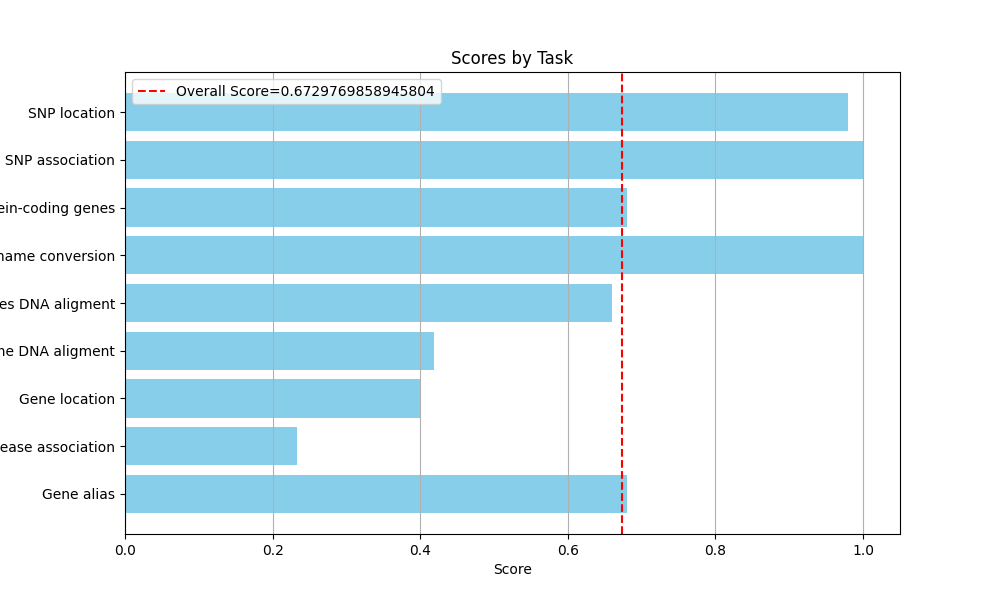
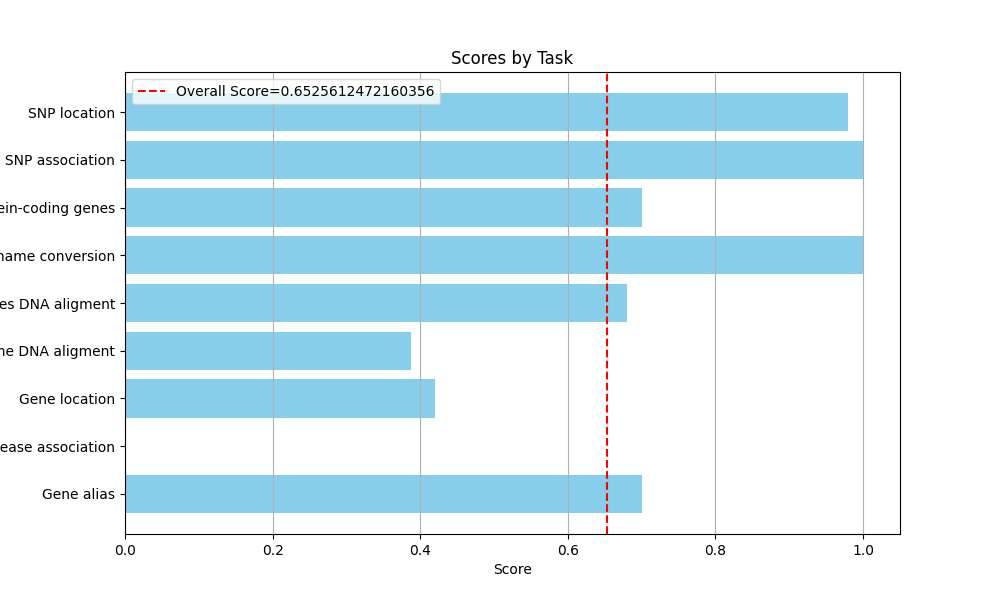
day3code

diff --git a/day3/judge.py b/day3/judge.py
@@ -27,7 +27,7 @@ api_base = os.getenv("AZURE_OPENAI_ENDPOINT")
 api_version = os.getenv("AZURE_OPENAI_API_VERSION")
 api_deployment = os.getenv("AZURE_OPENAI_DEPLOYMENT_NAME")
 
-DATASET = "genehop"
+DATASET = "geneturing"
 
 DATASET_FILE = f"{DATASET}_results.json"
 # set up the client
@@ -84,16 +84,6 @@ Explanation: [Your Justification]
     except Exception as e:
         return f"An error occurred during evaluation: {e}"
 
-def score_per_task_all(results):
-    task_scores = defaultdict(list)
-    for result in results:
-        if result.success:
-            task_scores[result.task].append(result.score)
-    for task, scores in task_scores.items():
-        task_scores[task] = sum(scores) / len(scores) if scores else 0
-    all_scores = [result.score for result in results if result.success]
-    overall_score = sum(all_scores) / len(all_scores) if all_scores else 0.0
-    return task_scores,overall_score
 
 
 def plot_scores_by_task(
@@ -117,27 +107,27 @@ def plot_scores_by_task(
     plt.savefig(imag_path)
     plt.show()
 
-# def calculate_evaluation(results_df):
-#     """
-#     Calculates the average score for each task and the overall average score.
+def calculate_evaluation(results_df):
+    """
+    Calculates the average score for each task and the overall average score.
 
-#     Args:
-#         results_df: A pandas DataFrame containing a 'task' and a'evaluation' column.
+    Args:
+        results_df: A pandas DataFrame containing a 'task' and a'evaluation' column.
 
-#     Returns:
-#         A tuple containing:
-#         - task_scores (dict): Average score for each task.
-#         - overall_score (float): Average score across all entries.
-#     """
-#     results_df['evaluation'] = pd.to_numeric(results_df['evaluation'], errors='coerce')
+    Returns:
+        A tuple containing:
+        - task_scores (dict): Average score for each task.
+        - overall_score (float): Average score across all entries.
+    """
+    results_df['score'] = pd.to_numeric(results_df['score'], errors='coerce')
     
-#     # Drop rows where score could not be parsed
-#     results_df.dropna(subset=['evaluation'], inplace=True)
+    # Drop rows where score could not be parsed
+    results_df.dropna(subset=['score'], inplace=True)
 
-#     task_scores = results_df.groupby('task')['evaluation'].mean().to_dict()
-#     overall_score = results_df['evaluation'].mean()
+    task_scores = results_df.groupby('task')['score'].mean().to_dict()
+    overall_score = results_df['score'].mean()
     
-#     return task_scores, overall_score
+    return task_scores, overall_score
 
 # --- Main Execution ---
 if __name__ == "__main__":
@@ -175,7 +165,7 @@ if __name__ == "__main__":
 
 
     # Start MLflow run
-    with mlflow.start_run(run_name="llm_judge"):
+    with mlflow.start_run(run_name="llm_judge_turing"):
         evaluations = []
         scores = []
         print(f"Starting evaluation of {len(results_df)} predictions from '{DATASET_FILE}'...")
@@ -206,7 +196,7 @@ if __name__ == "__main__":
         print(f"Evaluations successfully saved to '{output_file}'")
 
         # --- Calculate and Plot Scores ---
-        task_scores, overall_score = score_per_task_all(results_df)
+        task_scores, overall_score = calculate_evaluation(results_df)
         imag_path =f"{DATASET}_scores_by_task_llm_judge.png"
         plot_scores_by_task(task_scores, overall_score,imag_path )
         mlflow.log_artifact(imag_path)

diff --git a/day3/genehop.py b/day3/genehop.py
@@ -616,7 +616,7 @@ def plot_scores_by_task(
 # save_results(results, RESULT_FILE)
 # task_scores, overall_score = score_per_task_all(results)
 
-with mlflow.start_run(run_name="gene_hop_run"):
+with mlflow.start_run(run_name="gene_hop_run_with_blast_Eutils"):
     # Log basic config
     mlflow.log_param("deployment_name", api_deployment)
     mlflow.log_param("version", api_version)
